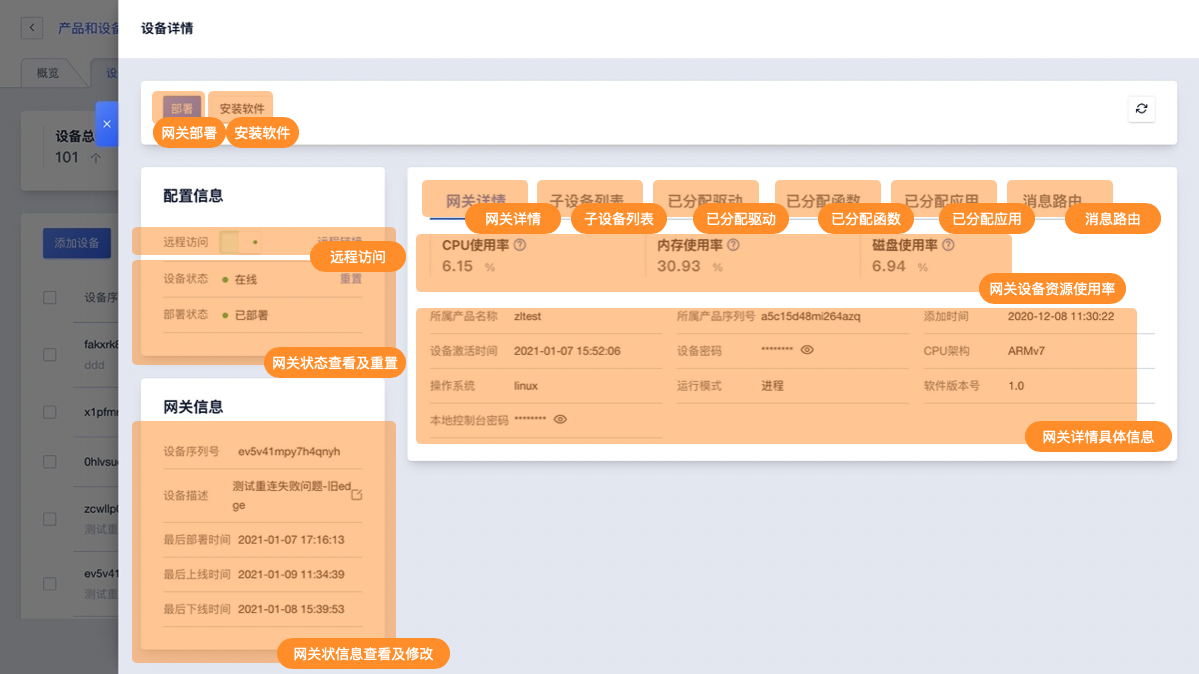
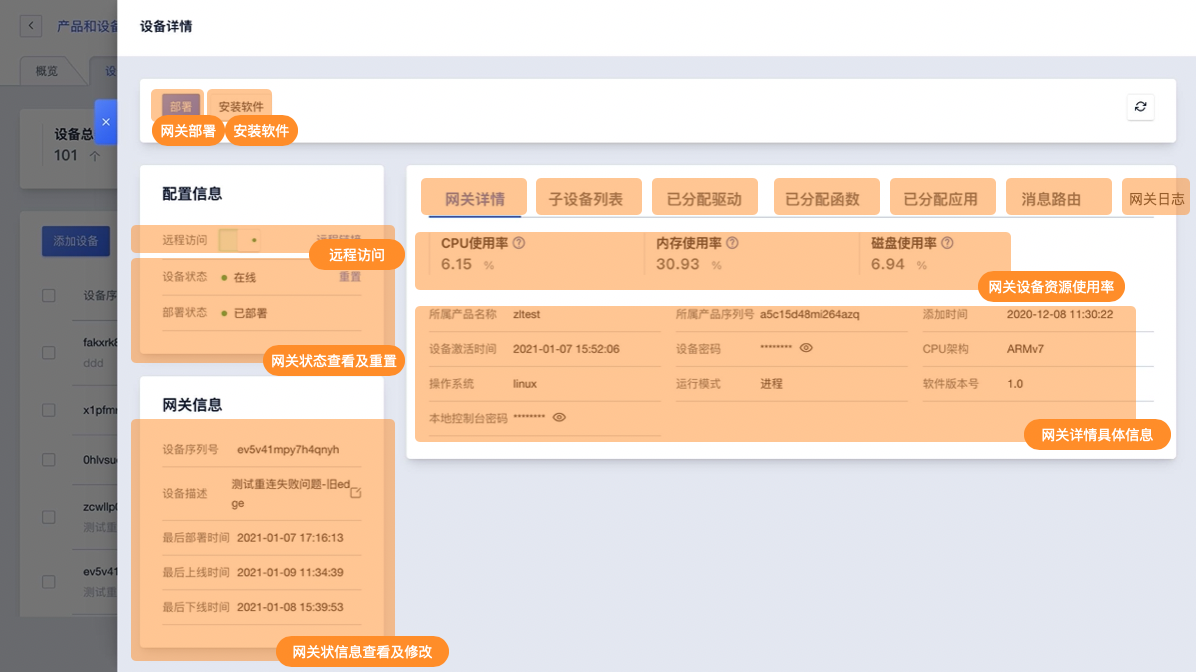
add_doc

diff --git a/控制台操作指南/网关管理/网关日志.md b/控制台操作指南/网关管理/网关日志.md
@@ -1,0 +1,57 @@
+# 网关日志
+
+网关设备提供网关日志功能，可查看当前网关的日志信息。
+
+
+
+## 操作指南
+在网关详情页面 进入网关日志界面，主要功能如下：
+
+![图片](../../images/网关日志-1.png)
+
+
+
+日志管理功能包括设备行为日志、上行消息流日志、下行消息流日志。同时提供按照流转顺序展示的日志消息详情。
+
+### 1、设备行为消息日志：
+
+**日志包含字段：**
+
+- 时间：消息发生的时间，
+- 设备序列号：这条日志相关的设备，点击<${设备序列号}>可以查看该设备的详情
+- 行为：包括设备上线、设备下线、设备订阅Topic、设备取消订阅Topic
+- 状态：表示设备行为执行的最终状态，success/fail
+- 原因分析：
+  - 设备上线成功： - 
+  - 设备上线失败：未授权
+  - 设备下线：同clientid设备竞争/设备在控制台被删除/设备在控制台被禁用/设备主动发送disconnect请求
+  - 设备订阅成功： - 
+  - 设备订阅失败： 未授权
+  - 设备取消订阅成功： - 
+
+
+
+### 2、上行消息流日志
+
+上行消息日志为设备发送消息到topic，消息流转到规则引擎和规则引擎转发消息到其他目的地的动作
+
+**日志包含字段：**
+
+- 时间：消息发生的时间
+- MessageID： MessageID是某条消息在平台流转的唯一标识，通过Message ID可以查询设备在平台流转的路径，比如经过规则引擎；点击可以展开该条消息的流转过程
+- 设备序列号：设备的序列号；点击<设备序列号>可以查看设备详情
+- 状态：succeed/fail；
+- 原因分析：
+  - 设备发送消息到topic成功： - 
+  - 设备发送消息到topic失败： 未授权
+  - 消息流转到ruleengine成功： - 
+  - 消息流转到ruleengine失败： 系统错误
+  - 消息流转到kafka成功： - 
+  - 消息流转到Kafka失败： Kafka服务异常/系统错误
+  - 消息流转到MongoDB成功： - 
+  - 消息流转到MongoDB失败：参数异常/Mongo服务异常/系统错误
+  - 消息流转到TSDB成功： - 
+  - 消息流转到TSDB失败： 参数异常/TSDB服务异常/系统错误
+  - 消息流转到topic成功： - 
+  - 消息流转到topic失败： 参数异常/系统异常
+- 消息流说明：该消息具体的流转路径

diff --git a/_sidebar.md b/_sidebar.md
@@ -53,6 +53,7 @@
     	* [消息路由配置详解](/uiot-stack/控制台操作指南/网关管理/消息路由/消息路由配置详解)
     * [网关部署](/uiot-stack/控制台操作指南/网关管理/网关部署)
 		* [远程访问](/uiot-stack/控制台操作指南/网关管理/远程访问)
+		* [网关日志](/uiot-stack/控制台操作指南/网关管理/网关日志)
     * 本地控制台操作指南
     	* [概览](/uiot-stack/控制台操作指南/网关管理/本地控制台操作指南/概览)
     	* [操作指南](/uiot-stack/控制台操作指南/网关管理/本地控制台操作指南/操作指南)
